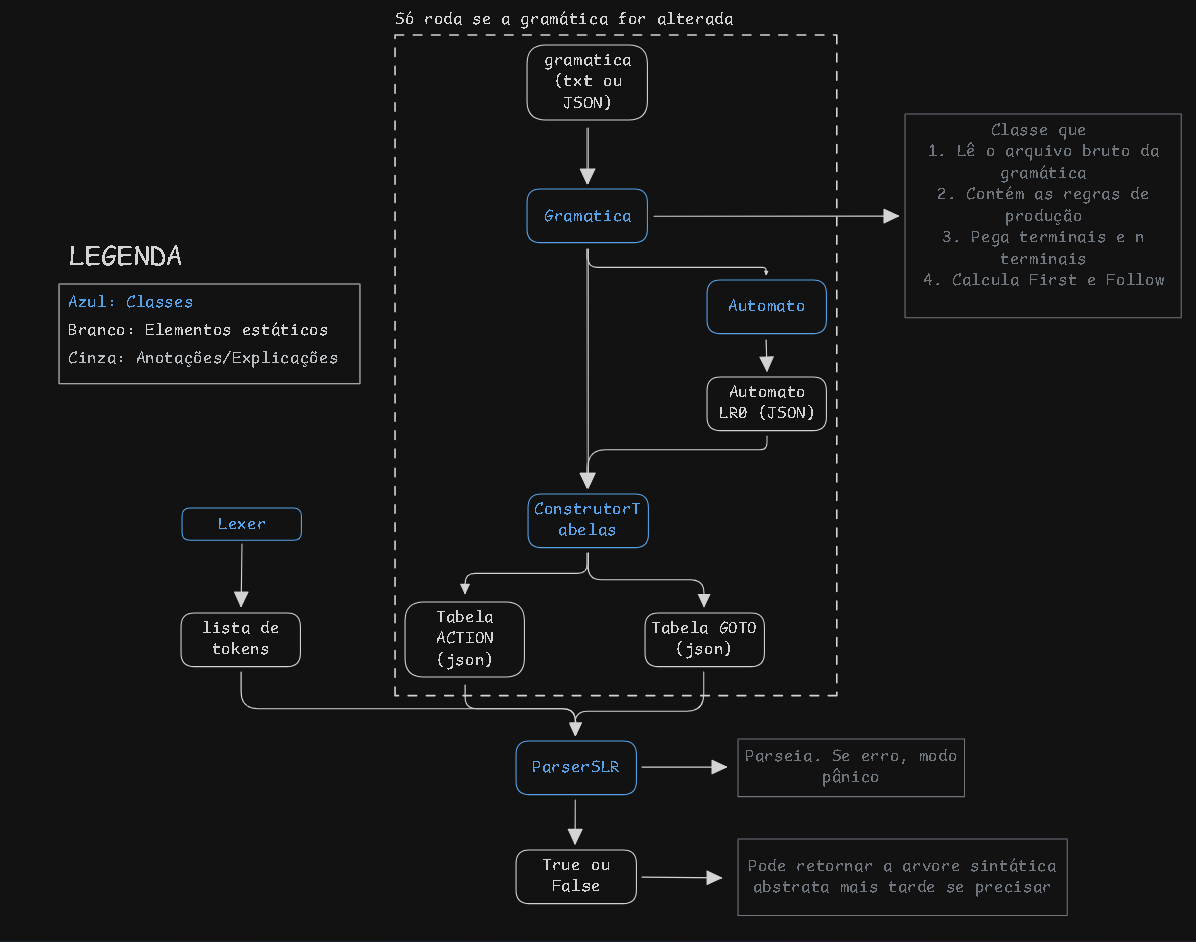
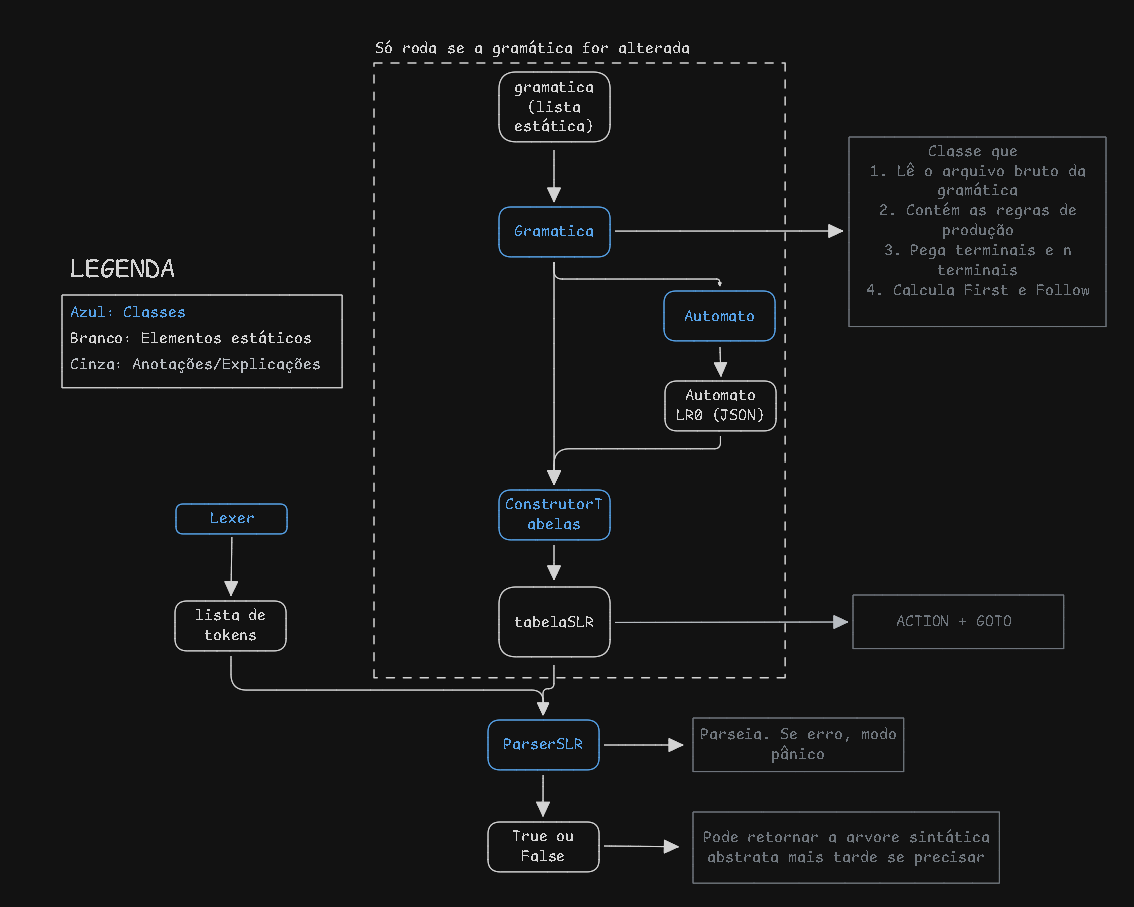
DOCS: diagrama arquitetura

diff --git a/INSTRUÇÕES_USO.md b/INSTRUÇÕES_USO.md
@@ -2,14 +2,14 @@
 
 **Bah, o C-hurras é uma linguagem barril dobrado, pensada praquela gurizada tri bagual que gosta de assar uma costela e tomar um tchopssinho enquanto paleia com os códigos**
 
-## Instruções de uso do Analisador Léxico:
+## Instruções de uso do Compilador:
 
-Rode o comando ```python analisador_lexico.py <arquivo_codigo>```, em que arquivo_codigo é um arquivo de texto formatado em UTF-8. 
+Rode o comando ```python main.py <arquivo_codigo>```, em que arquivo_codigo é um arquivo de texto formatado em UTF-8. 
 
 Em caso de uma leitura léxica bem-sucedida, a saída será mostrada no terminal como no exemplo a seguir:
 
 ```terminal 
-python.exe .\analisador_lexico.py .\codigo_teste.txt
+python.exe .\main.py .\codigo_teste.txt
 token: vaca | categoria: tipo | linha: 1
 token: variavel1 | categoria: id | linha: 1
 token: ; | categoria: ; | linha: 1

diff --git a/docs/Arquitetura.md b/docs/Arquitetura.md
@@ -1,4 +1,4 @@
-# 🏗 Rascunho de Arquitetura: Analisador Sintático SLR(1)
+# Rascunho de Arquitetura: Analisador Sintático SLR(1)
 
 Classes, divisão de responsabilidades das classes e ideia para o fluxo de processamento. Alguns nomes/labels podem estar diferentes no código, na imagem e nos textos abaixo. 
 
